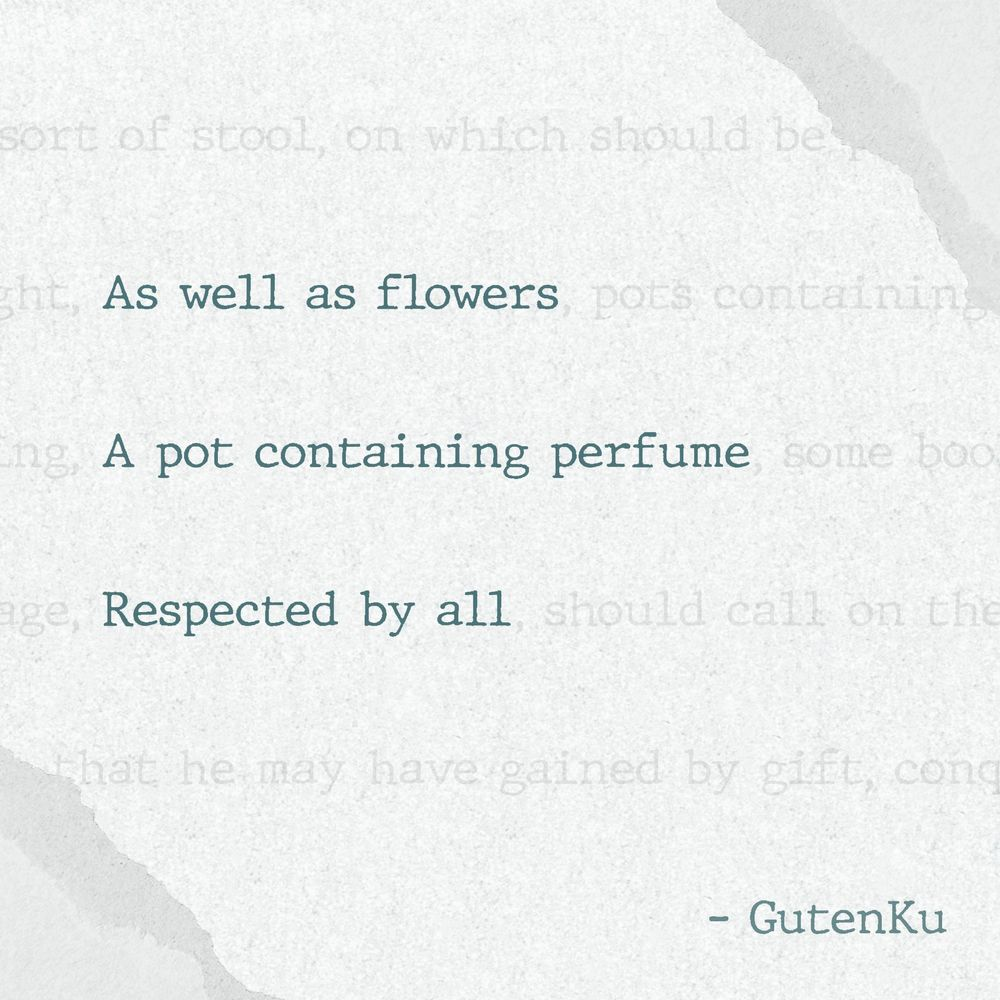
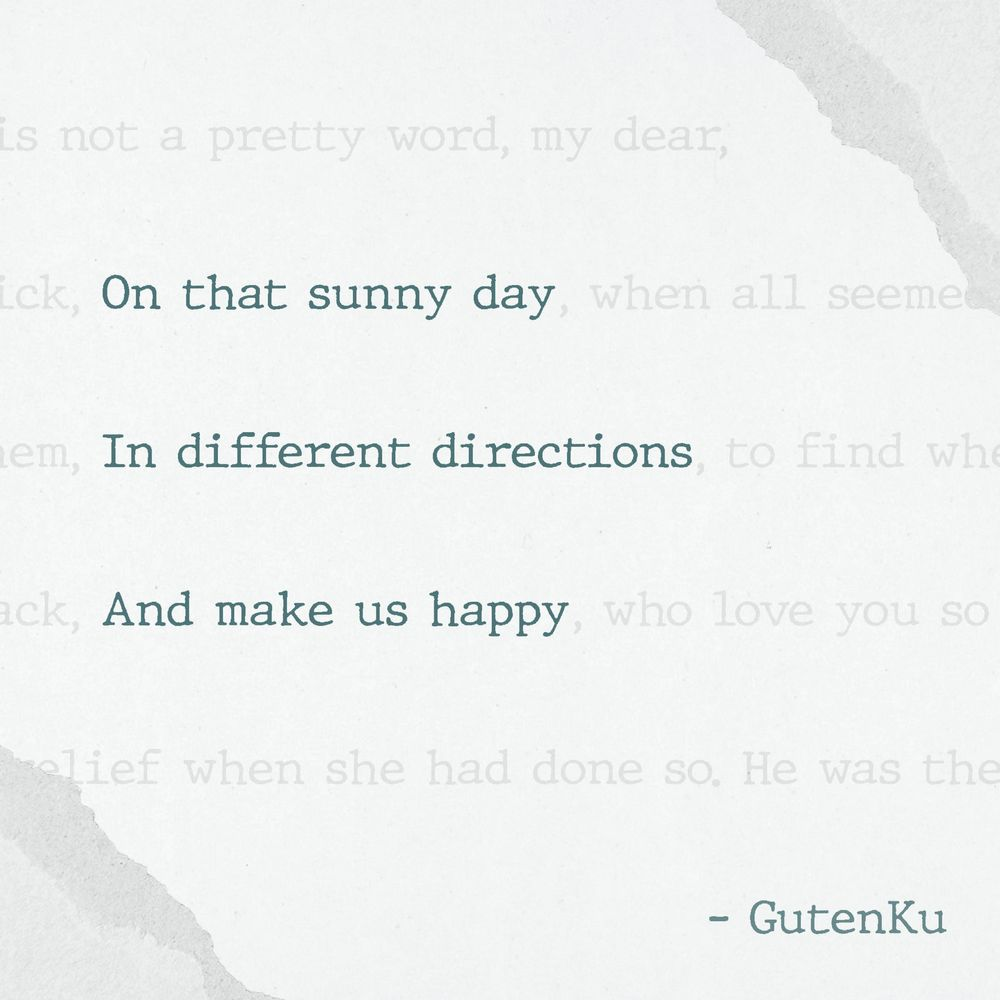
[Readme] Updated Daily Haiku Card

diff --git a/README.md b/README.md
@@ -2,9 +2,9 @@
 
 ## 🌸 Daily Haiku Card 🗻
 
-<img src="/assets/img/daily_haiku_card.jpg?t=1692748802" width="300" alt="Daily Haiku Card">
+<img src="/assets/img/daily_haiku_card.jpg?t=1692921601" width="300" alt="Daily Haiku Card">
 
-Last Snapshot: `Wed, 23 Aug 2023 00:00:02 +0000`
+Last Snapshot: `Fri, 25 Aug 2023 00:00:01 +0000`
 
 Want more? Visit [🔗gutenku.xyz](https://gutenku.xyz) or come back tomorrow 😉
 
